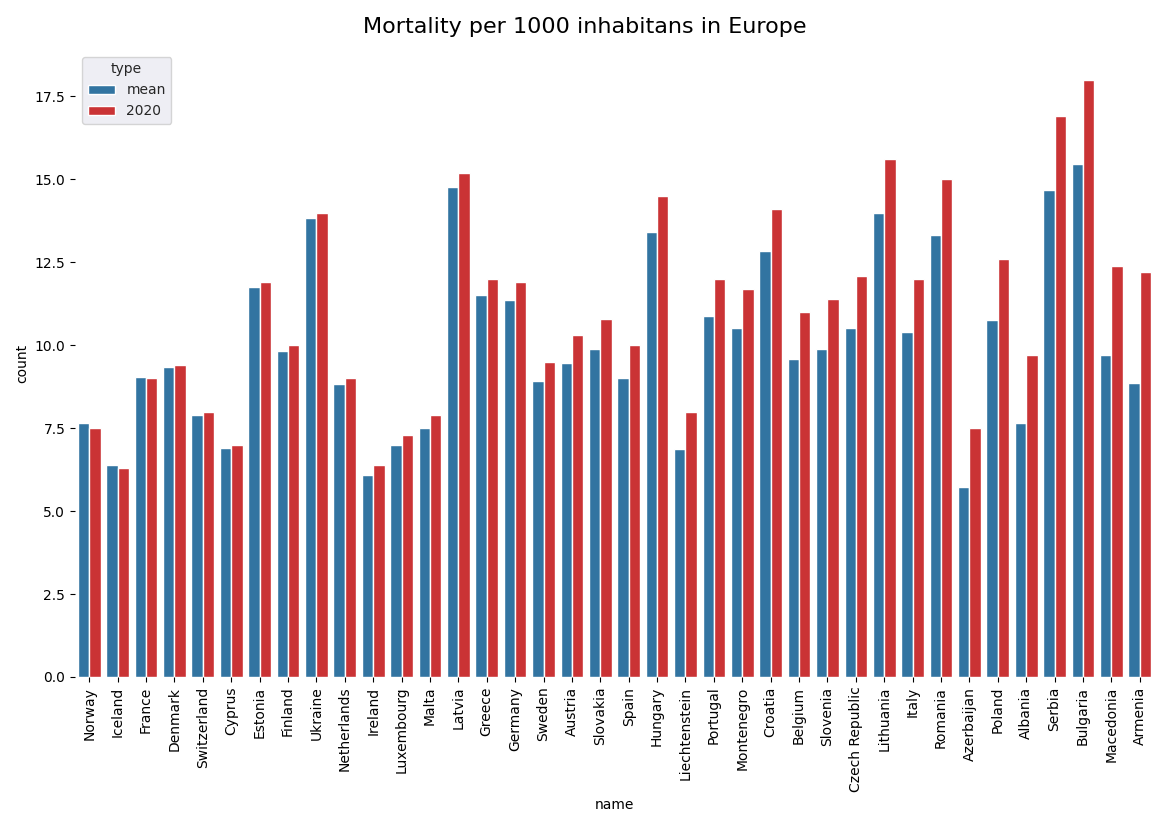
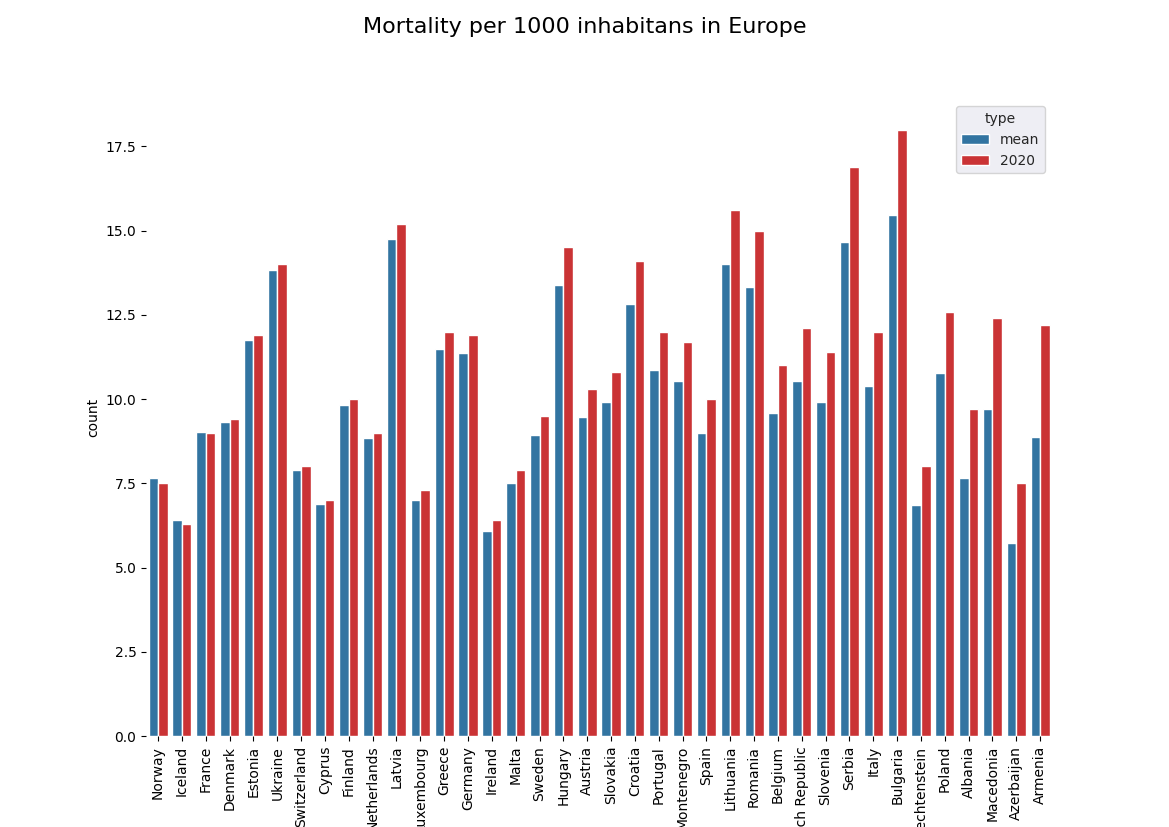
plots ok

diff --git a/main.py b/main.py
@@ -2,7 +2,7 @@ import pandas as pd
 import geopandas as gpd
 import numpy as np
 import seaborn as sns
-
+from sklearn.cluster import KMeans
 from matplotlib import pyplot as plt
 
 
@@ -51,22 +51,52 @@ def get_geo_map():
     return geo_map
 
 
+def add_kmeans_classes(df):
+    km = df.sort_values('increase_perc', ).copy()
+
+    km = km.loc[~df['increase_perc'].isna()]
+    km = km.loc[:, ['increase_perc', 'country']]
+    km['2d'] = km['increase_perc']
+
+    kmeans = KMeans(n_clusters=3).fit(km[['increase_perc', '2d']])
+    km['class'] = kmeans.labels_
+    km = km.loc[:, ['class', 'country']]
+
+    df = df.join(km.set_index('country'), on='country', how='left')
+
+    df.loc[df['increase_perc'] < 0, 'class'] = 3
+
+    df = df.astype({'class': 'category'})
+
+    level_mean = df.loc[:, ['class', 'increase_perc']].groupby('class').mean().reset_index()
+    level_mean = level_mean.rename({'increase_perc': 'mean_cls'}, axis=1)
+
+    df = df.join(level_mean.set_index('class'), on='class', how='left')
+    df['class'] = df['mean_cls'].round(decimals=1)
+    df = df.drop('mean_cls', axis=1)
+
+    df = df.astype({'class': 'category'})
+    return df
+
+
 def plot_geo(df: pd.DataFrame, fig_location: str = None, show_figure: bool = False):
     geo_map = get_geo_map()
 
     df = df.loc[~ df['country'].isin(['EA18', 'EA19', 'EU27_2007', 'EU27_2020', 'EU28', 'FX', 'XK'])]
     df = geo_map.join(df.set_index('country'), on='country', how='right')
 
+    df = add_kmeans_classes(df)
+
     fig, axes = plt.subplots(1, 2, figsize=(11.69, 5))
     fig.suptitle("Motality increase in Europe 2020", fontsize=16)
 
     axes = axes.flatten()
-    plot_columns = ['increase', 'increase_perc']
+    plot_columns = ['increase', 'class']
 
     for i in range(2):
         df.plot(column=plot_columns[i], ax=axes[i], missing_kwds=dict(color="lightgrey", ), legend=True, cmap='hot')
 
-    ax_titles = ['Total increase per 1000 inhabitants', 'Percentage increase per 1000 inhabitants']
+    ax_titles = ['Total increase per 1000 inhabitants', 'Average of percentage increase']
 
     for i in range(2):
         axes[i].xaxis.set_visible(False)
@@ -94,7 +124,7 @@ def add_country_names(df: pd.DataFrame):
 
 def plot_table(df: pd.DataFrame, fig_location: str = None, show_figure: bool = False):
     df = add_country_names(df)
-    df.sort_values('increase', inplace=True)
+    df.sort_values('increase_perc', inplace=True)
     df = df.loc[~df['2020'].isna()]
     df.loc[df['country'] == 'MK', 'NAME'] = 'Macedonia'
 
@@ -129,9 +159,35 @@ def save_table(df: pd.DataFrame, table_location: str = None):
         df.to_csv(table_location)
 
 
+def print_mean_europe(df):
+    print('AVG EU:')
+    print(df.loc[df['country'] == 'EU27_2020', ['mean', '2020']])
+
+
+def print_sweden_increase(df):
+    print('Sweden 2020:')
+    print(df.loc[df['country'] == 'SE', '2020'])
+
+
+def print_poland_increase(df):
+    print('Poland perc increase:')
+    print(df.loc[df['country'] == 'PL', ['increase_perc', '2020']])
+
+
+def print_czech_increase(df):
+    print('CR :')
+    print(df.loc[df['country'] == 'CZ', ['increase_perc', '2020']])
+
+
 def main():
     df = get_mortality()
-    plot_table(df, show_figure=True, fig_location='01_barplot.png')
+
+    print_mean_europe(df)
+    print_sweden_increase(df)
+    print_poland_increase(df)
+    print_czech_increase(df)
+
+    plot_table(df, show_figure=False, fig_location='01_barplot.png')
     plot_geo(df, show_figure=False, fig_location='02_map.png')
 
     save_table(df, 'mortality_table.csv')
